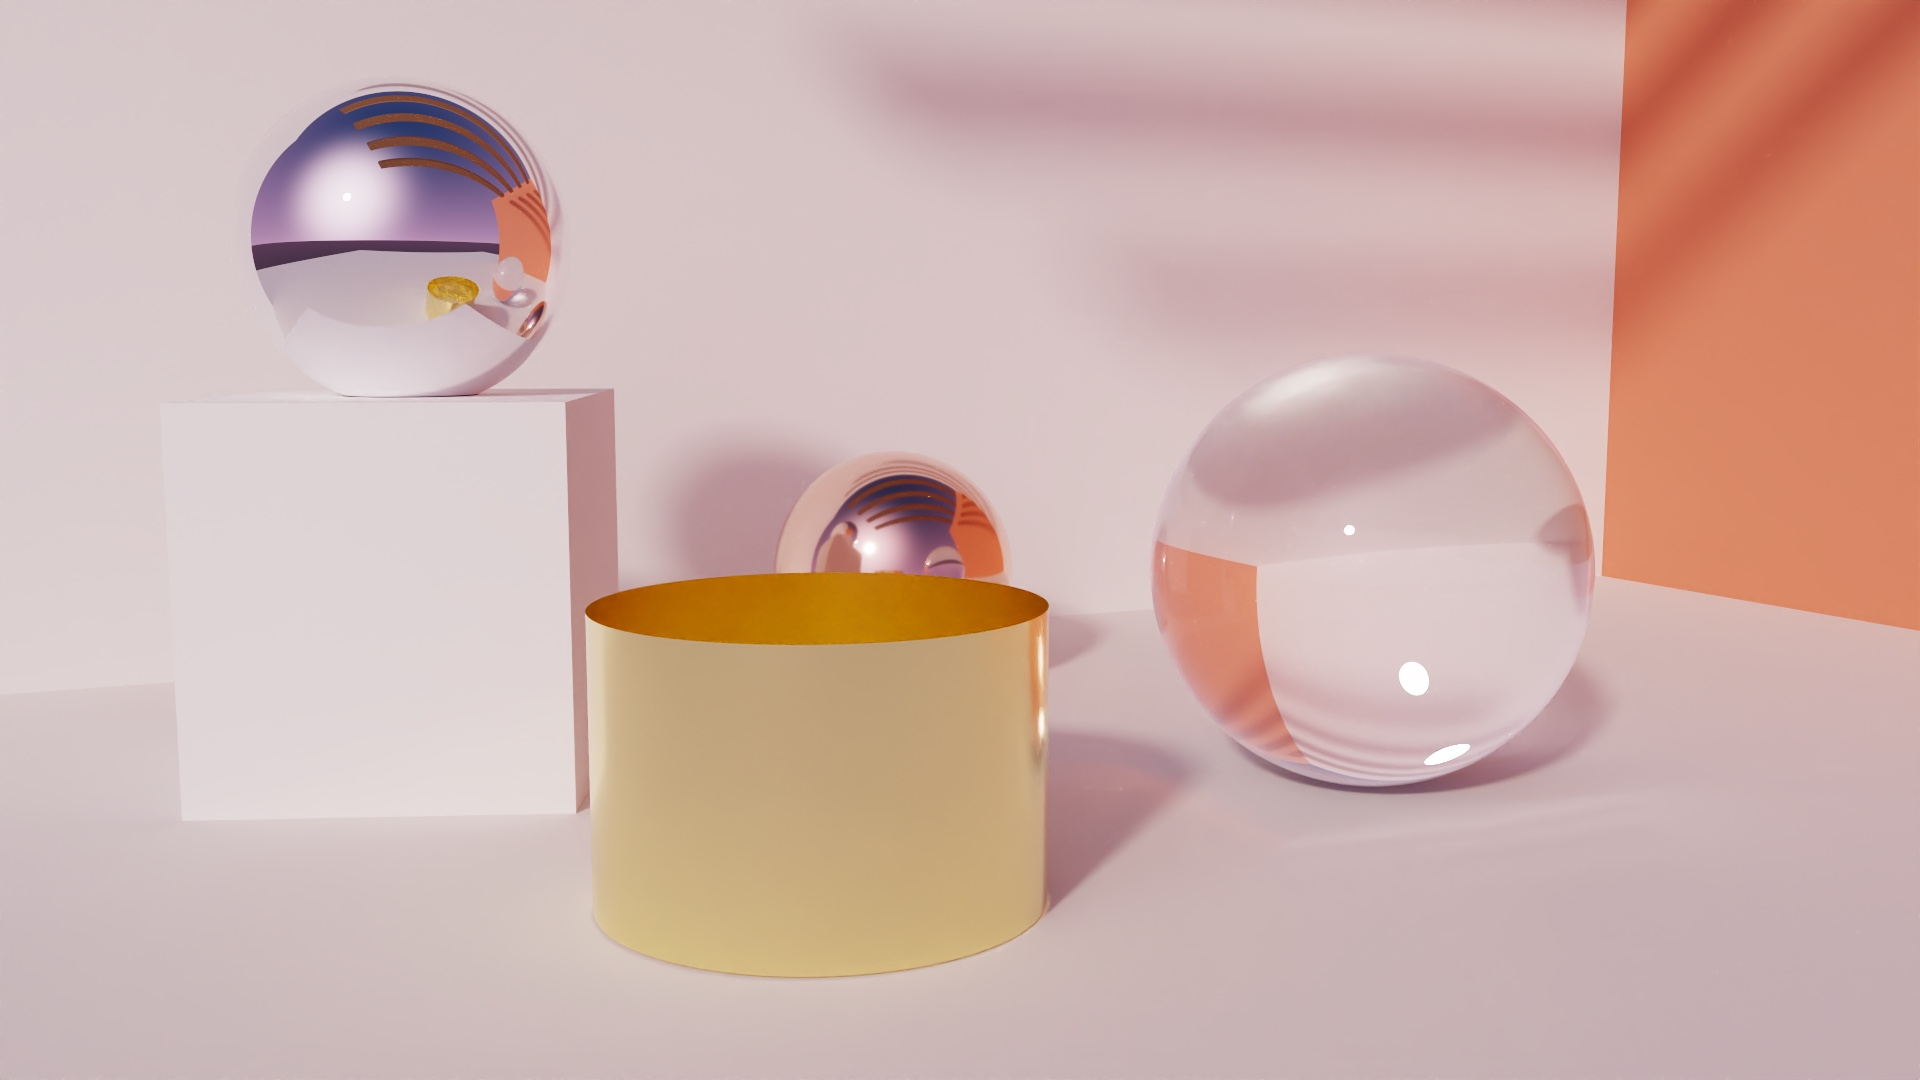
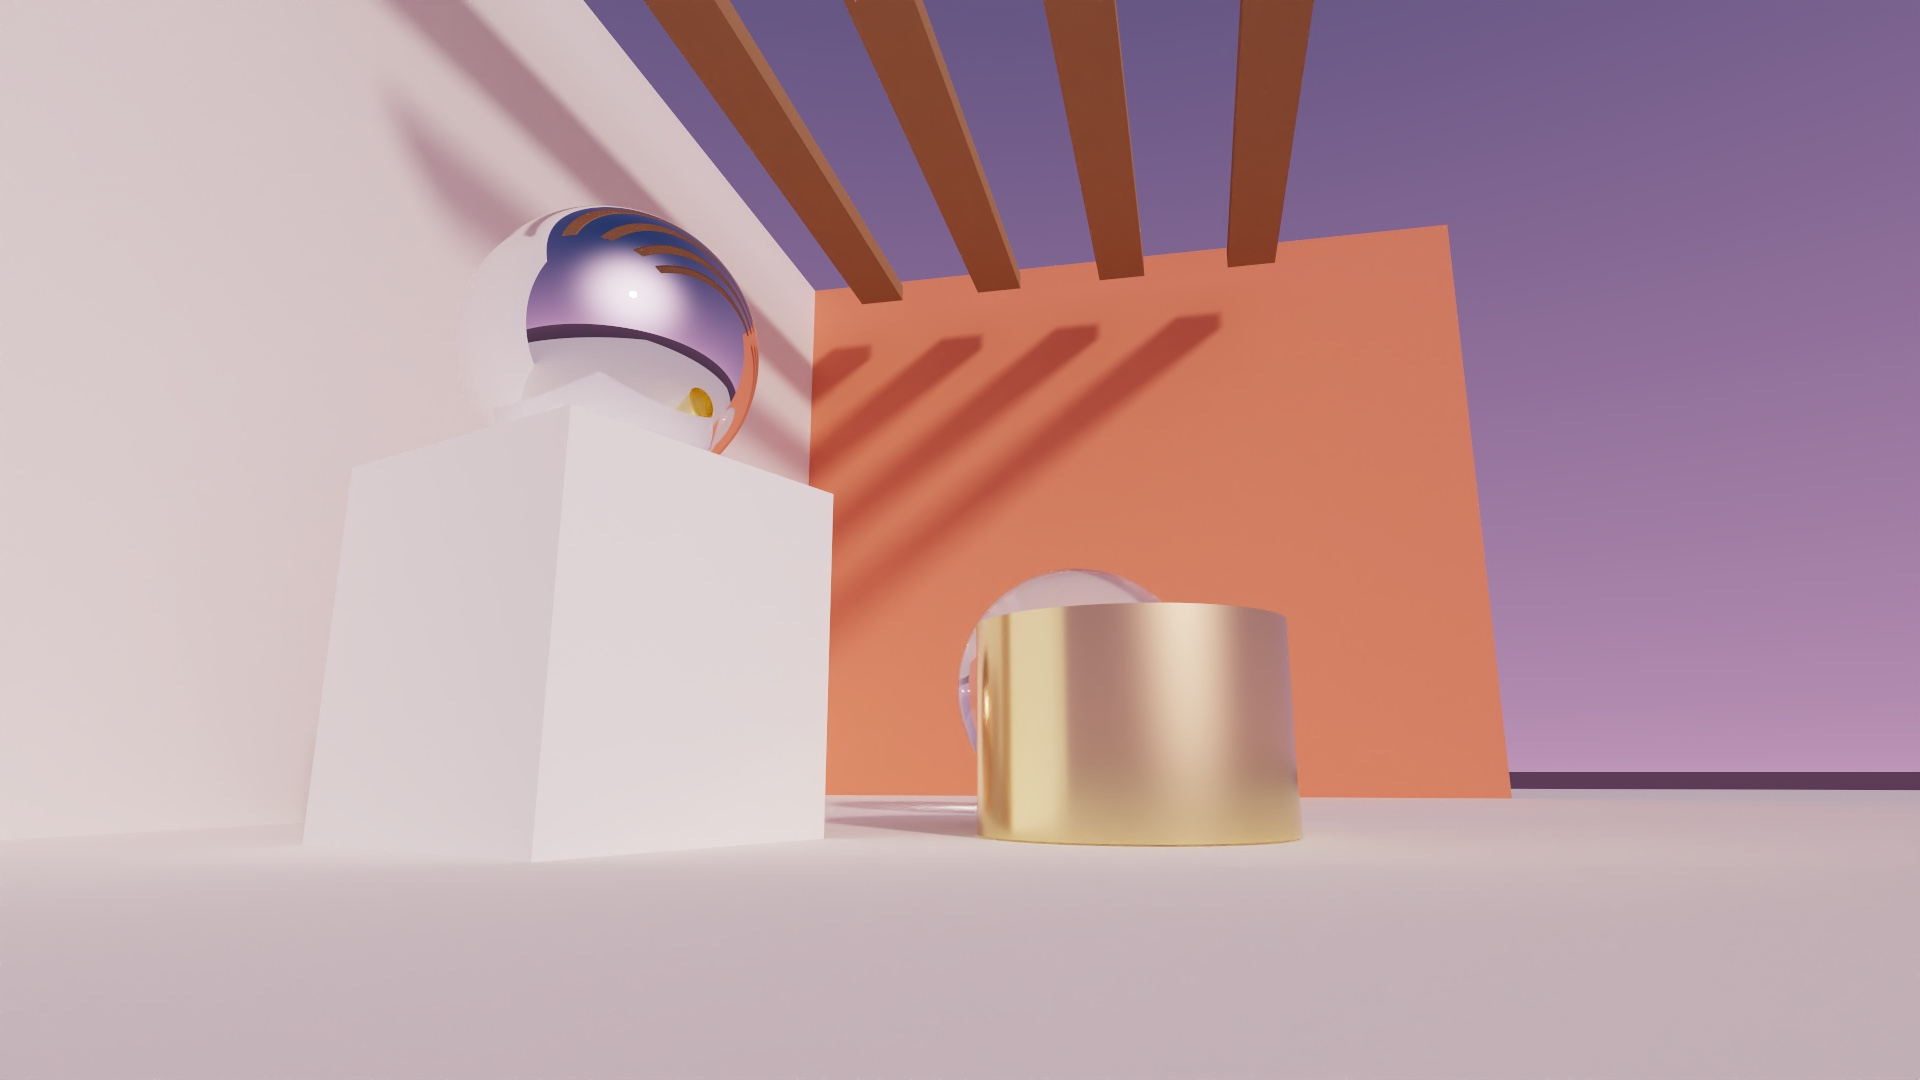
docs: reframe the procedural sky shot to show the twilight sky

diff --git a/docs/images/README.md b/docs/images/README.md
@@ -10,7 +10,7 @@ The README images were rendered on 2026-10-20 on an Apple M4 with `python3 scrip
 | `cornell-glass-mirror.jpg` | Built-in Cornell Glass & Mirror scene, showing the glass sphere's caustic. 1200×1200, 1024 spp. |
 | `spectral-incandescent-a.jpg`, `spectral-fluorescent-fl11.jpg`, `spectral-sodium-hp1.jpg` | Built-in Cornell Glass & Mirror scene with the area light's **Light spectrum** set to CIE A, FL11 and HP1. 1000×1000, 1024 spp each. |
 | `pavilion-depth-of-field.jpg` | Built-in Pavilion close-up with a 0.09 aperture radius focused on the copper sphere, lit by the Poly Haven **Studio Small 01** HDRI (CC0). Rendered at 1600×1200, 1024 spp, and cropped to 1600×900 (rows 100–999) to match the twilight image beside it. |
-| `pavilion-twilight.jpg` | Built-in Pavilion under the **Twilight / Studio** sky preset, with the light spectrum set to CIE A. 1920×1080, 1024 spp. |
+| `pavilion-twilight.jpg` | Built-in Pavilion from a low camera, with the roof beams against the **Twilight / Studio** sky preset. 1920×1080, 1024 spp. |
 | `shaderball-loft.jpg` | ASWF Standard Shader Ball, side view, lit by the Poly Haven **Photo Studio Loft Hall** HDRI (CC0). Rendered at 1600×1200, 512 spp, and cropped to 1200×1200 (columns 380–1579) to match the Cornell image beside it (attribution below). |
 | `grazing-cylinder.png` | Built-in grazing-angle cylinder regression comparison (commit `86f8c7d`, 2026-09-08). Not shown in the README. |
 

diff --git a/README.md b/README.md
@@ -52,11 +52,11 @@ Real-time ReSTIR, OpenPBR materials, OpenUSD import, and denoised exports.
 <table>
   <tr>
     <td width="50%"><img src="docs/images/pavilion-depth-of-field.jpg" alt="Pavilion close-up focused on the copper sphere, with the foreground cylinder out of focus"></td>
-    <td width="50%"><img src="docs/images/pavilion-twilight.jpg" alt="Pavilion under the twilight sky preset with soft beam shadows"></td>
+    <td width="50%"><img src="docs/images/pavilion-twilight.jpg" alt="Low view of the Pavilion with the roof beams against the purple twilight sky"></td>
   </tr>
   <tr>
     <td align="center"><sub><b>Thin-lens depth of field.</b> Focus on the copper sphere, with the gold cylinder in front out of focus.</sub></td>
-    <td align="center"><sub><b>Procedural sky.</b> The Twilight preset, with soft shadows from the roof beams.</sub></td>
+    <td align="center"><sub><b>Procedural sky.</b> The roof beams against the Twilight preset, casting shadows on the orange wall.</sub></td>
   </tr>
 </table>
 
